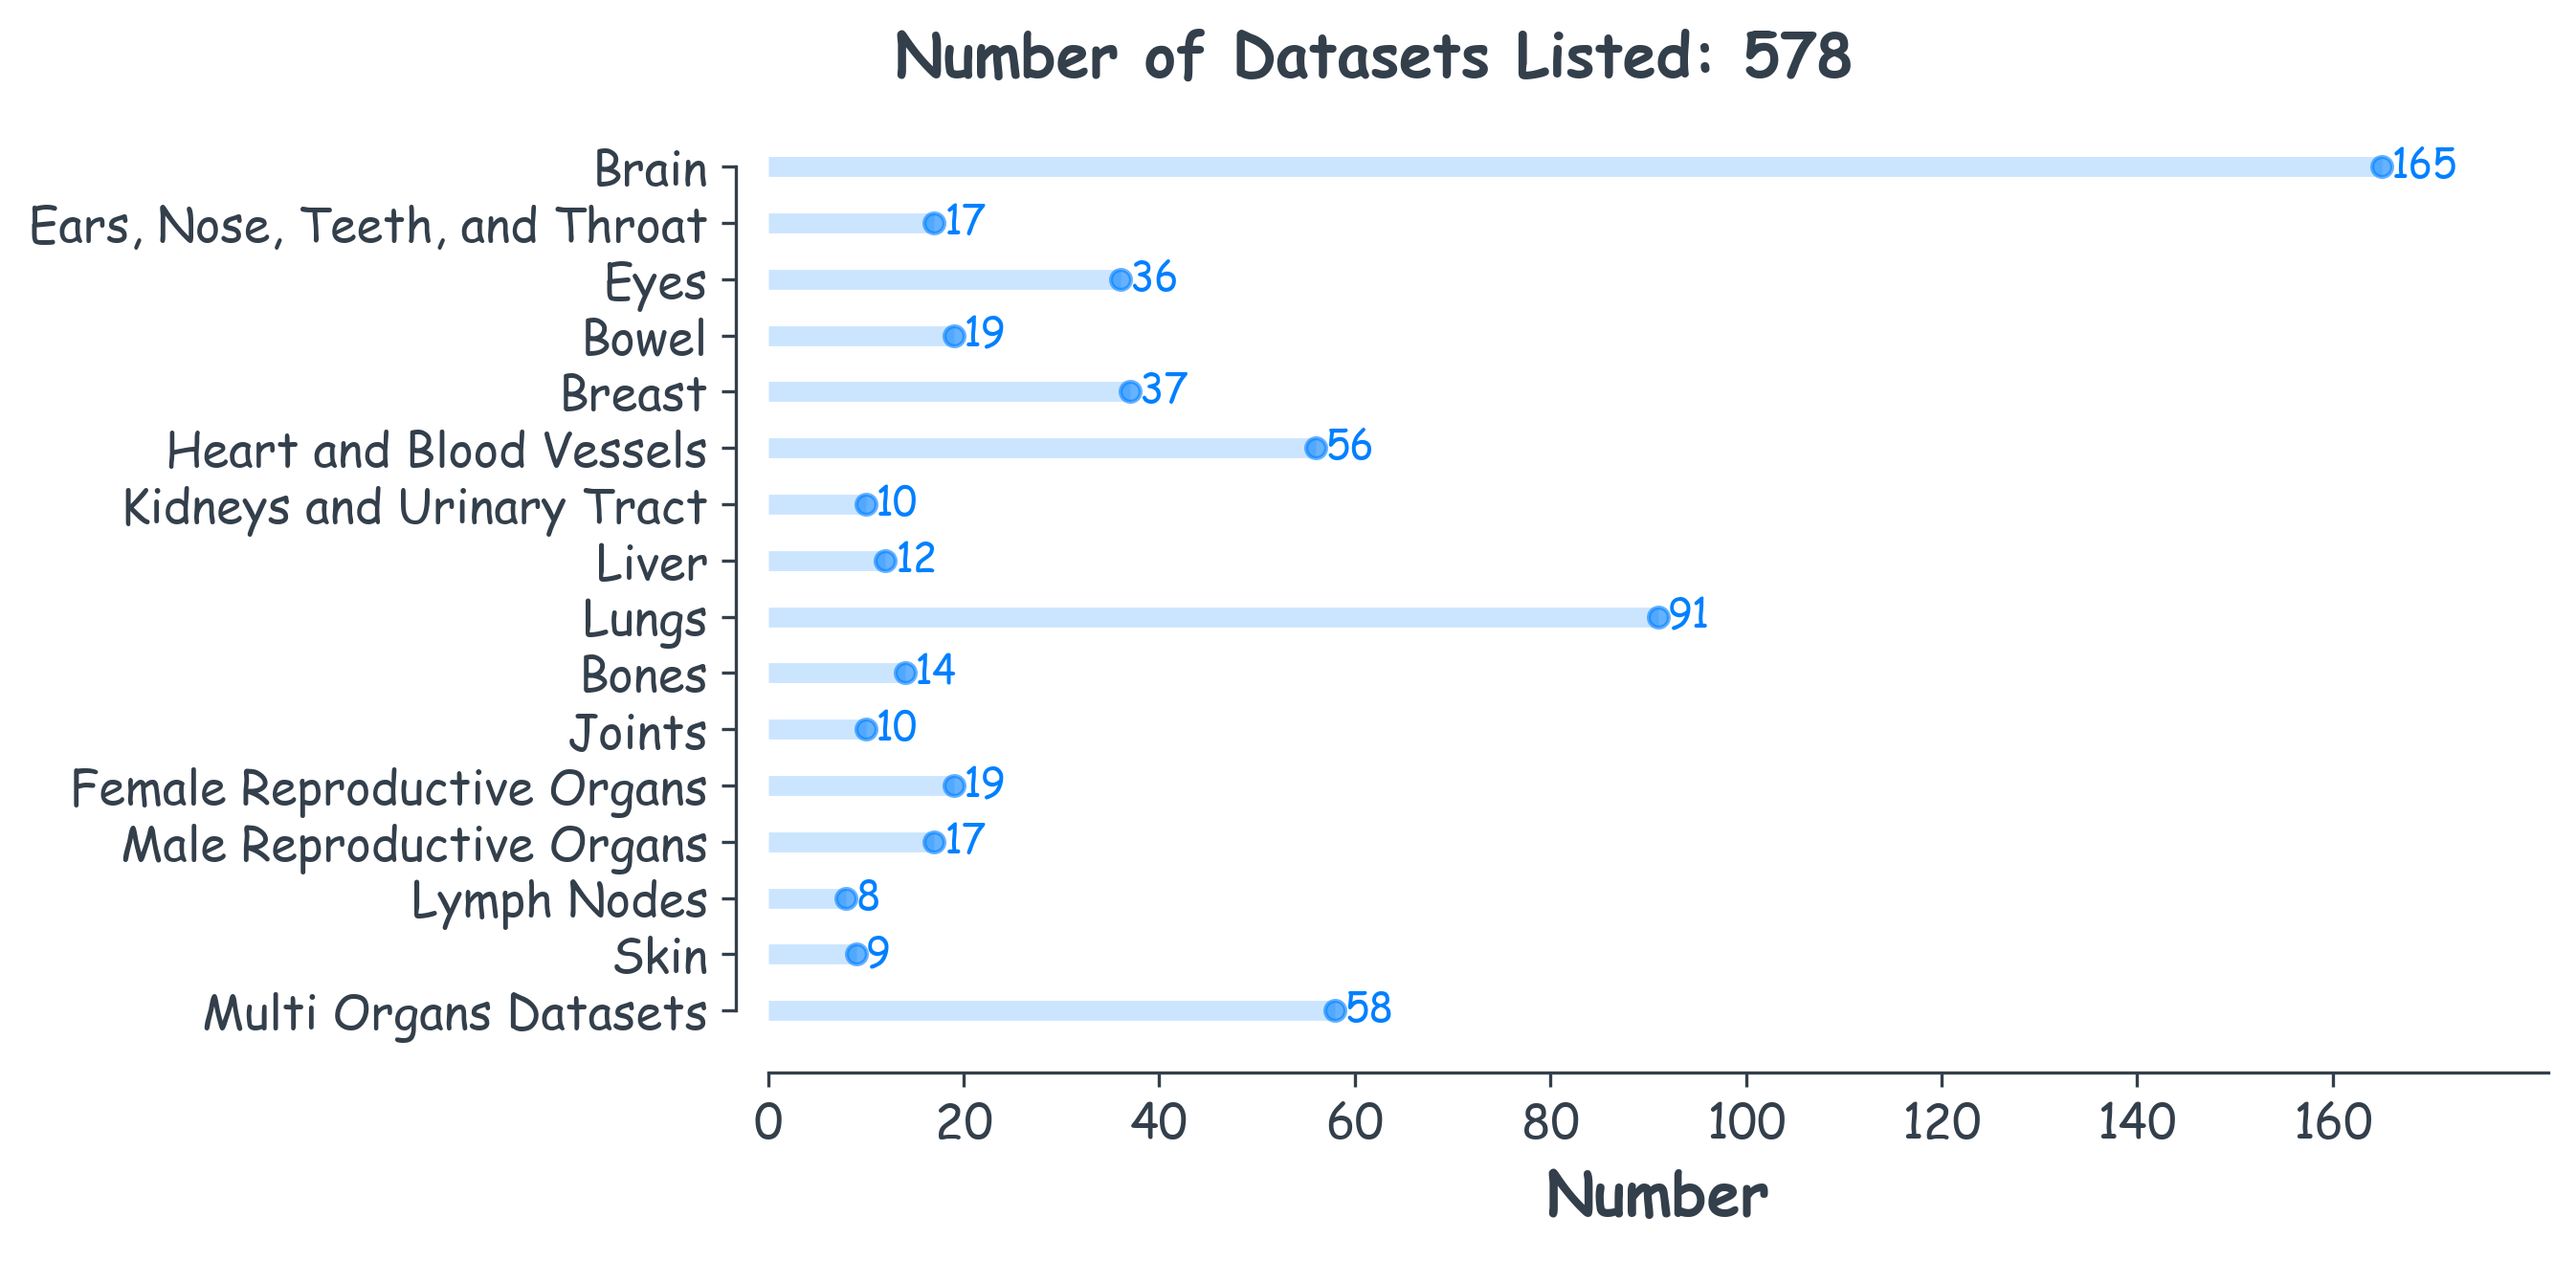
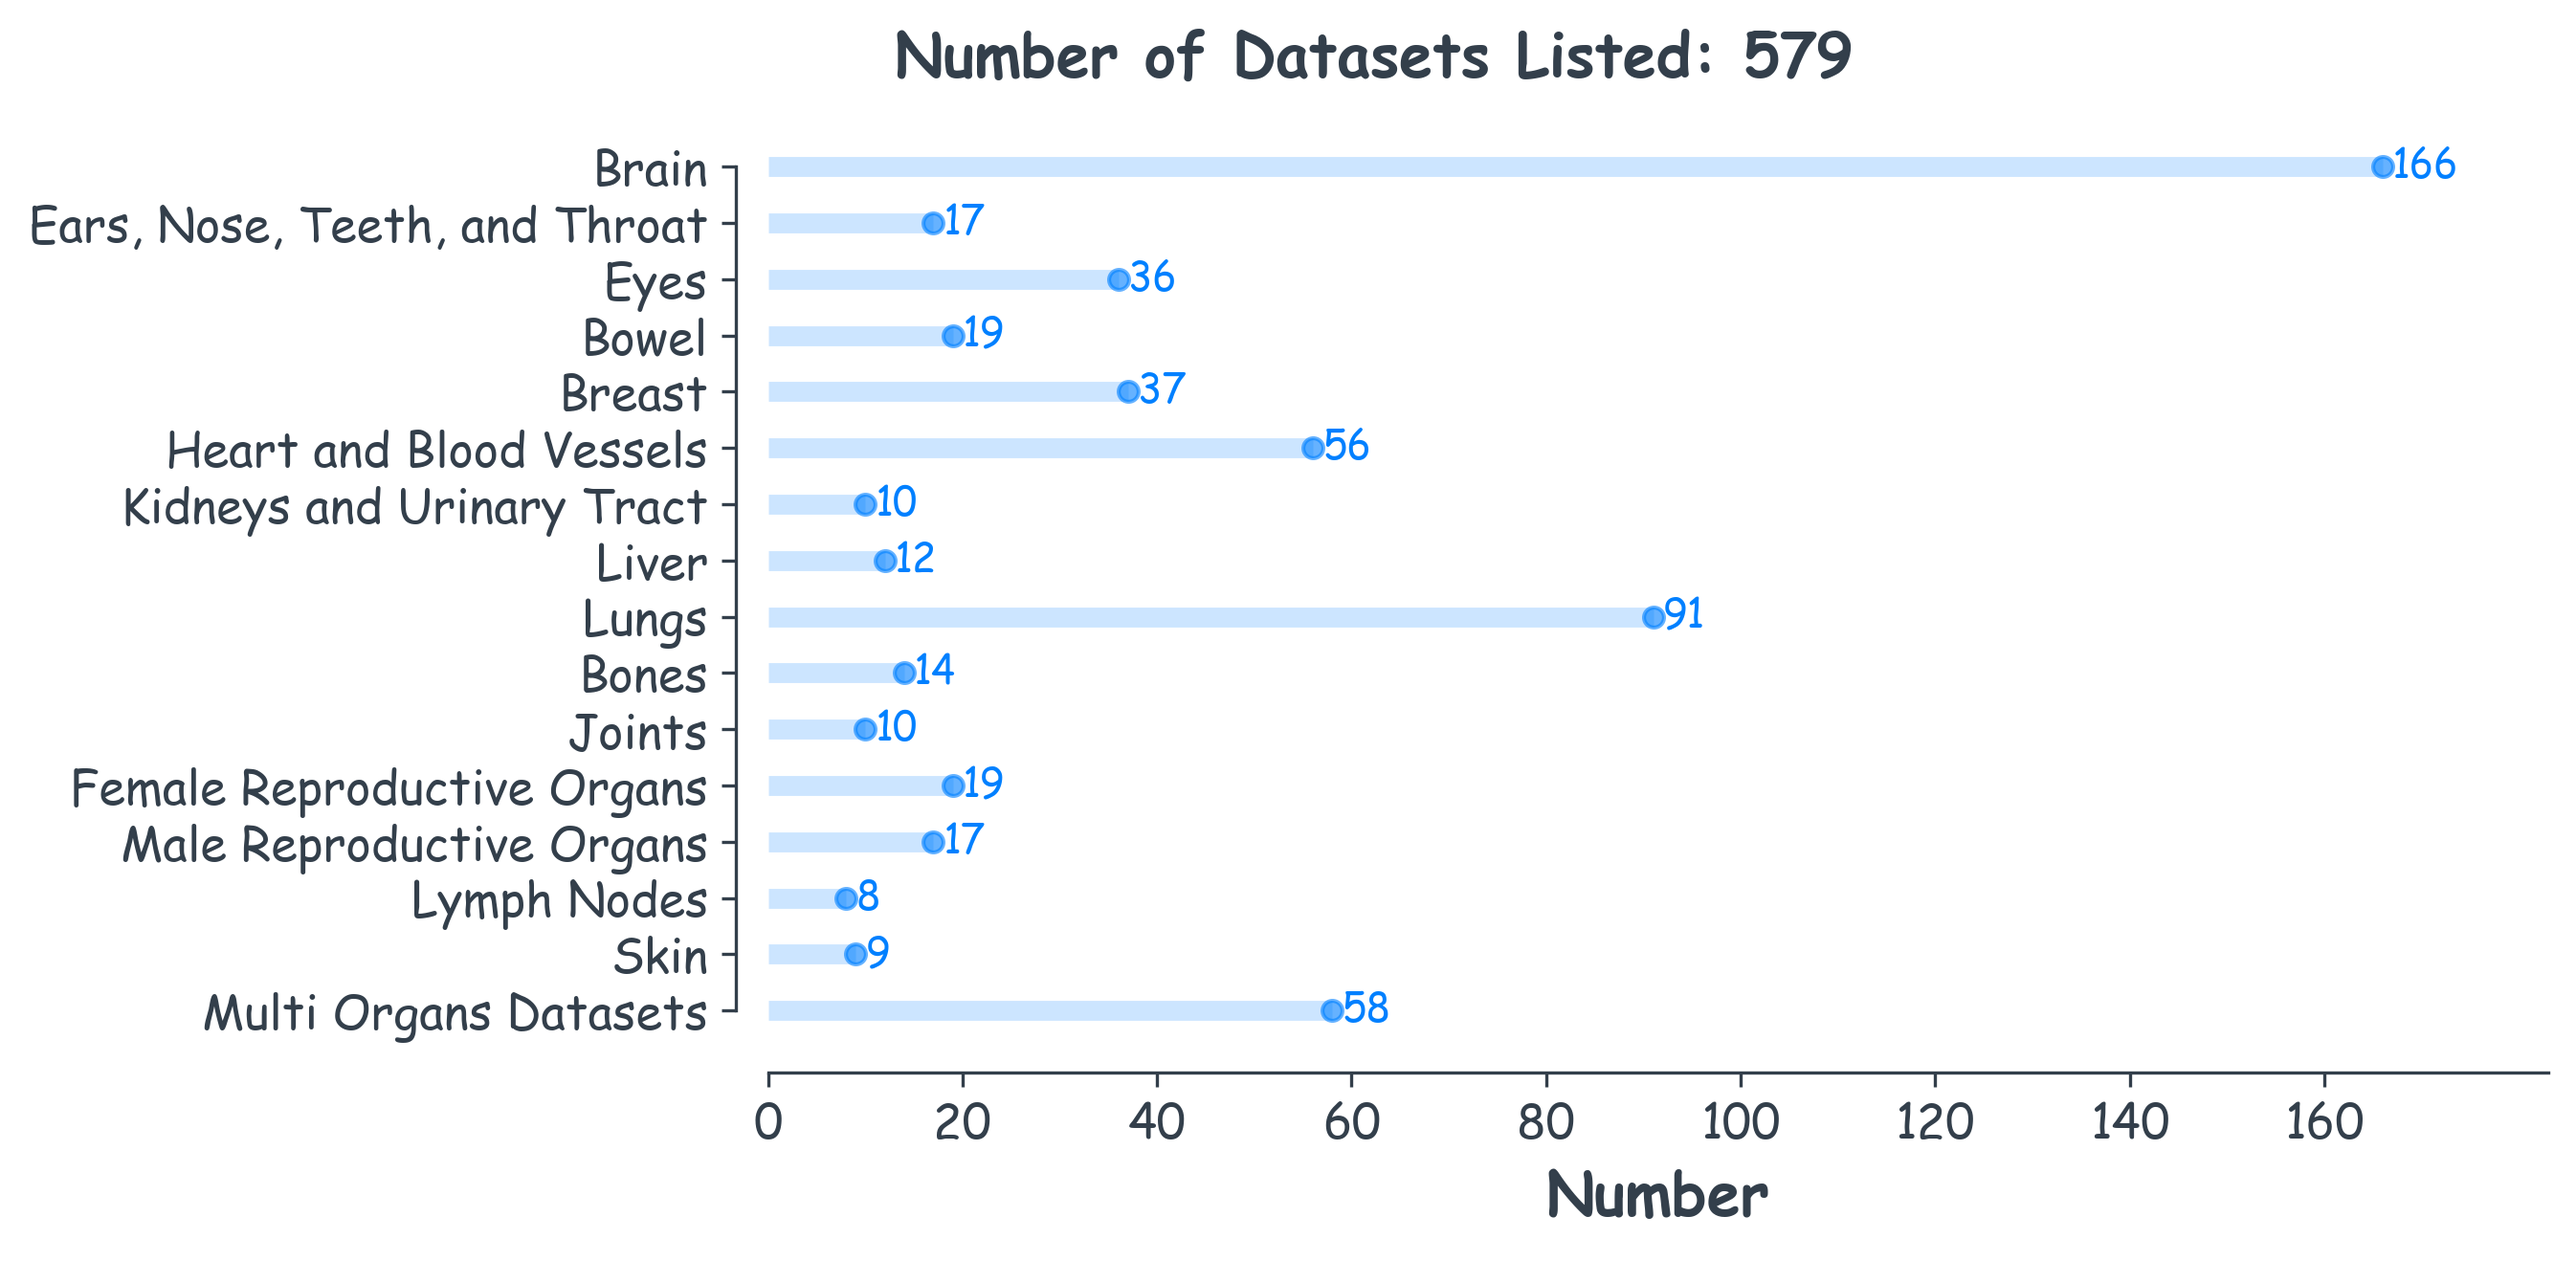
update image number, N = 579

diff --git a/src/datasetNumberImage.py b/src/datasetNumberImage.py
@@ -29,7 +29,7 @@ plt.rcParams['text.color']='#333F4B'
 
 
 data = {
-       'Brain': 165,
+       'Brain': 166,
        'Ears, Nose, Teeth, and Throat': 17, 
        'Eyes': 36,
        'Bowel': 19,
